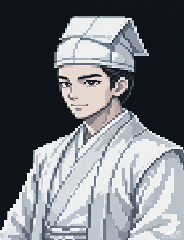
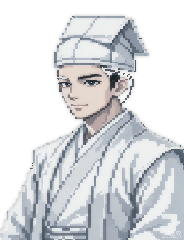
fix(立绘/测试): 两主角立绘去黑底+30%虚化，国庆窗口内每日登录礼用例固定日期防假红
- 立绘 me_xiangyu/me_scholar：去黑底（连通域 flood-fill 保留内部黑发）+ 30% 柔化（原图 70% 混 30% 高斯模糊），游戏内与宣传图均受益
- 宣传图 guoqing_promo_4x3：改用透明立绘重绘，make_card 改为「圆角只裁在不透明处」避免回填黑底
- 测试护修：03-ui 每日登录礼 4 条端到端用例固定 boot 日期为窗口外 TEST_TODAY(2026-09-15)，避免真实国庆日(10/1~10/7)开机自动弹窗被国庆礼抢占导致假红；boot() 支持 opts.now 冻结游戏内 Date
- 全量 379/379 通过

diff --git a/test/automated/03-ui.test.js b/test/automated/03-ui.test.js
@@ -145,6 +145,22 @@ async function boot(opts = {}) {
           if (opts.seed[k] != null) win.localStorage.setItem(k, opts.seed[k]);
         });
       }
+      // 冻结「游戏内今天」为 opts.now（YYYY-MM-DD），使依赖真实日期的用例（每日/国庆登录礼）
+      // 与运行环境解耦——否则在 国庆 窗口（10/1~10/7）内跑，开机自动弹窗会被 国庆礼抢占，
+      // 导致每日登录礼用例在真实 国庆日 假红。仅当显式传 now 时才冻结。
+      if (opts.now) {
+        const _RealDate = win.Date;
+        const _fixedMs = new _RealDate(opts.now + 'T00:00:00').getTime();
+        function _FakeDate(a, b, c, d, e, f, g) {
+          if (arguments.length === 0) return new _RealDate(_fixedMs);
+          return new _RealDate(a, b, c, d, e, f, g);
+        }
+        _FakeDate.now = function () { return _fixedMs; };
+        _FakeDate.parse = _RealDate.parse;
+        _FakeDate.UTC = _RealDate.UTC;
+        _FakeDate.prototype = _RealDate.prototype;
+        win.Date = _FakeDate;
+      }
       win.alert = () => {};
       win.confirm = () => true;
       win.prompt = () => '自动化测试';
@@ -2216,14 +2232,16 @@ module.exports = async function build() {
   });
 
   /* ---------- 每日登录礼：标题页按钮 + 自动弹面板（端到端） ---------- */
-  function todayStr() {
-    const d = new Date(); const m = d.getMonth() + 1, dd = d.getDate();
-    return d.getFullYear() + '-' + (m < 10 ? '0' : '') + m + '-' + (dd < 10 ? '0' : '') + dd;
-  }
+  // 固定一个「非国庆窗口」的基准日，使每日登录礼用例与运行环境真实日期解耦
+  // （国庆窗口为 10/1~10/7；基准日选在窗口外，避免开机自动弹窗被国庆礼抢占导致假红）
+  const TEST_TODAY = '2026-09-15';
+  function todayStr() { return TEST_TODAY; }
   function daysAgoStr(n) {
-    const d = new Date(); d.setDate(d.getDate() - n);
-    const m = d.getMonth() + 1, dd = d.getDate();
-    return d.getFullYear() + '-' + (m < 10 ? '0' : '') + m + '-' + (dd < 10 ? '0' : '') + dd;
+    const p = TEST_TODAY.split('-');
+    const dt = new Date(Date.UTC(+p[0], +p[1] - 1, +p[2]));
+    dt.setUTCDate(dt.getUTCDate() - n);
+    const y = dt.getUTCFullYear(), m = dt.getUTCMonth() + 1, dd = dt.getUTCDate();
+    return y + '-' + (m < 10 ? '0' : '') + m + '-' + (dd < 10 ? '0' : '') + dd;
   }
   function seedMeta(daily, points) {
     return JSON.stringify({
@@ -2233,7 +2251,7 @@ module.exports = async function build() {
   }
 
   S.case('每日登录礼：标题页按钮存在，当日已领取时不弹面板且文案为「已领取」', async (t) => {
-    const { win, doc } = await boot({ seed: { dedao_meta: seedMeta({ last: todayStr(), streak: 3, total: 3, patch: 0 }) } });
+    const { win, doc } = await boot({ seed: { dedao_meta: seedMeta({ last: todayStr(), streak: 3, total: 3, patch: 0 }) }, now: TEST_TODAY });
     const btn = doc.getElementById('t-daily');
     t.ok(!!btn, '标题页应有 #t-daily 每日登录礼按钮');
     if (btn) {
@@ -2248,7 +2266,7 @@ module.exports = async function build() {
   });
 
   S.case('每日登录礼：未领取时开机自动弹面板，7 格齐全，领取后 +2 点且按钮转「已领取」', async (t) => {
-    const { win, doc, errors } = await boot({ seed: { dedao_meta: seedMeta(undefined) } });
+    const { win, doc, errors } = await boot({ seed: { dedao_meta: seedMeta(undefined) }, now: TEST_TODAY });
     const modal = doc.getElementById('modal');
     t.ok(modal && !/display:\s*none/.test(modal.getAttribute('style') || ''), '当日未领取时应自动弹面板');
     t.eq(doc.querySelectorAll('#modal-body .daily-cell').length, 7, '面板应渲染 7 个格子');
@@ -2276,7 +2294,8 @@ module.exports = async function build() {
      导致「领取 / 补签 / 关闭」按钮全不渲染、面板无法操作。此两条钉死按钮必须存在且可点。 */
   S.case('每日登录礼：断签 Δ=2 可补签时，面板渲染补签+领取+关闭三按钮，点补签扣 5 点续上第 4 天', async (t) => {
     const { win, doc, errors } = await boot({
-      seed: { dedao_meta: seedMeta({ last: daysAgoStr(2), streak: 3, total: 3, patch: 0 }, 20) }
+      seed: { dedao_meta: seedMeta({ last: daysAgoStr(2), streak: 3, total: 3, patch: 0 }, 20) },
+      now: TEST_TODAY
     });
     const body0 = (doc.getElementById('modal-body') || {}).textContent || '';
     t.ok(/断签/.test(body0), '断签态面板正文应提示已断签，实际：' + body0.slice(0, 60));
@@ -2297,7 +2316,8 @@ module.exports = async function build() {
 
   S.case('每日登录礼：断签 Δ≥3 不可补签时，仍须渲染领取+关闭按钮且可正常领取', async (t) => {
     const { win, doc, errors } = await boot({
-      seed: { dedao_meta: seedMeta({ last: daysAgoStr(5), streak: 4, total: 4, patch: 0 }, 7) }
+      seed: { dedao_meta: seedMeta({ last: daysAgoStr(5), streak: 4, total: 4, patch: 0 }, 7) },
+      now: TEST_TODAY
     });
     const btns = [...doc.querySelectorAll('#modal-body .daily-acts button')].map(b => b.textContent || '');
     t.eq(btns.length, 2, '不可补签时应有 2 个按钮（领取/关闭），实际 ' + btns.length + ' 个：' + JSON.stringify(btns));
